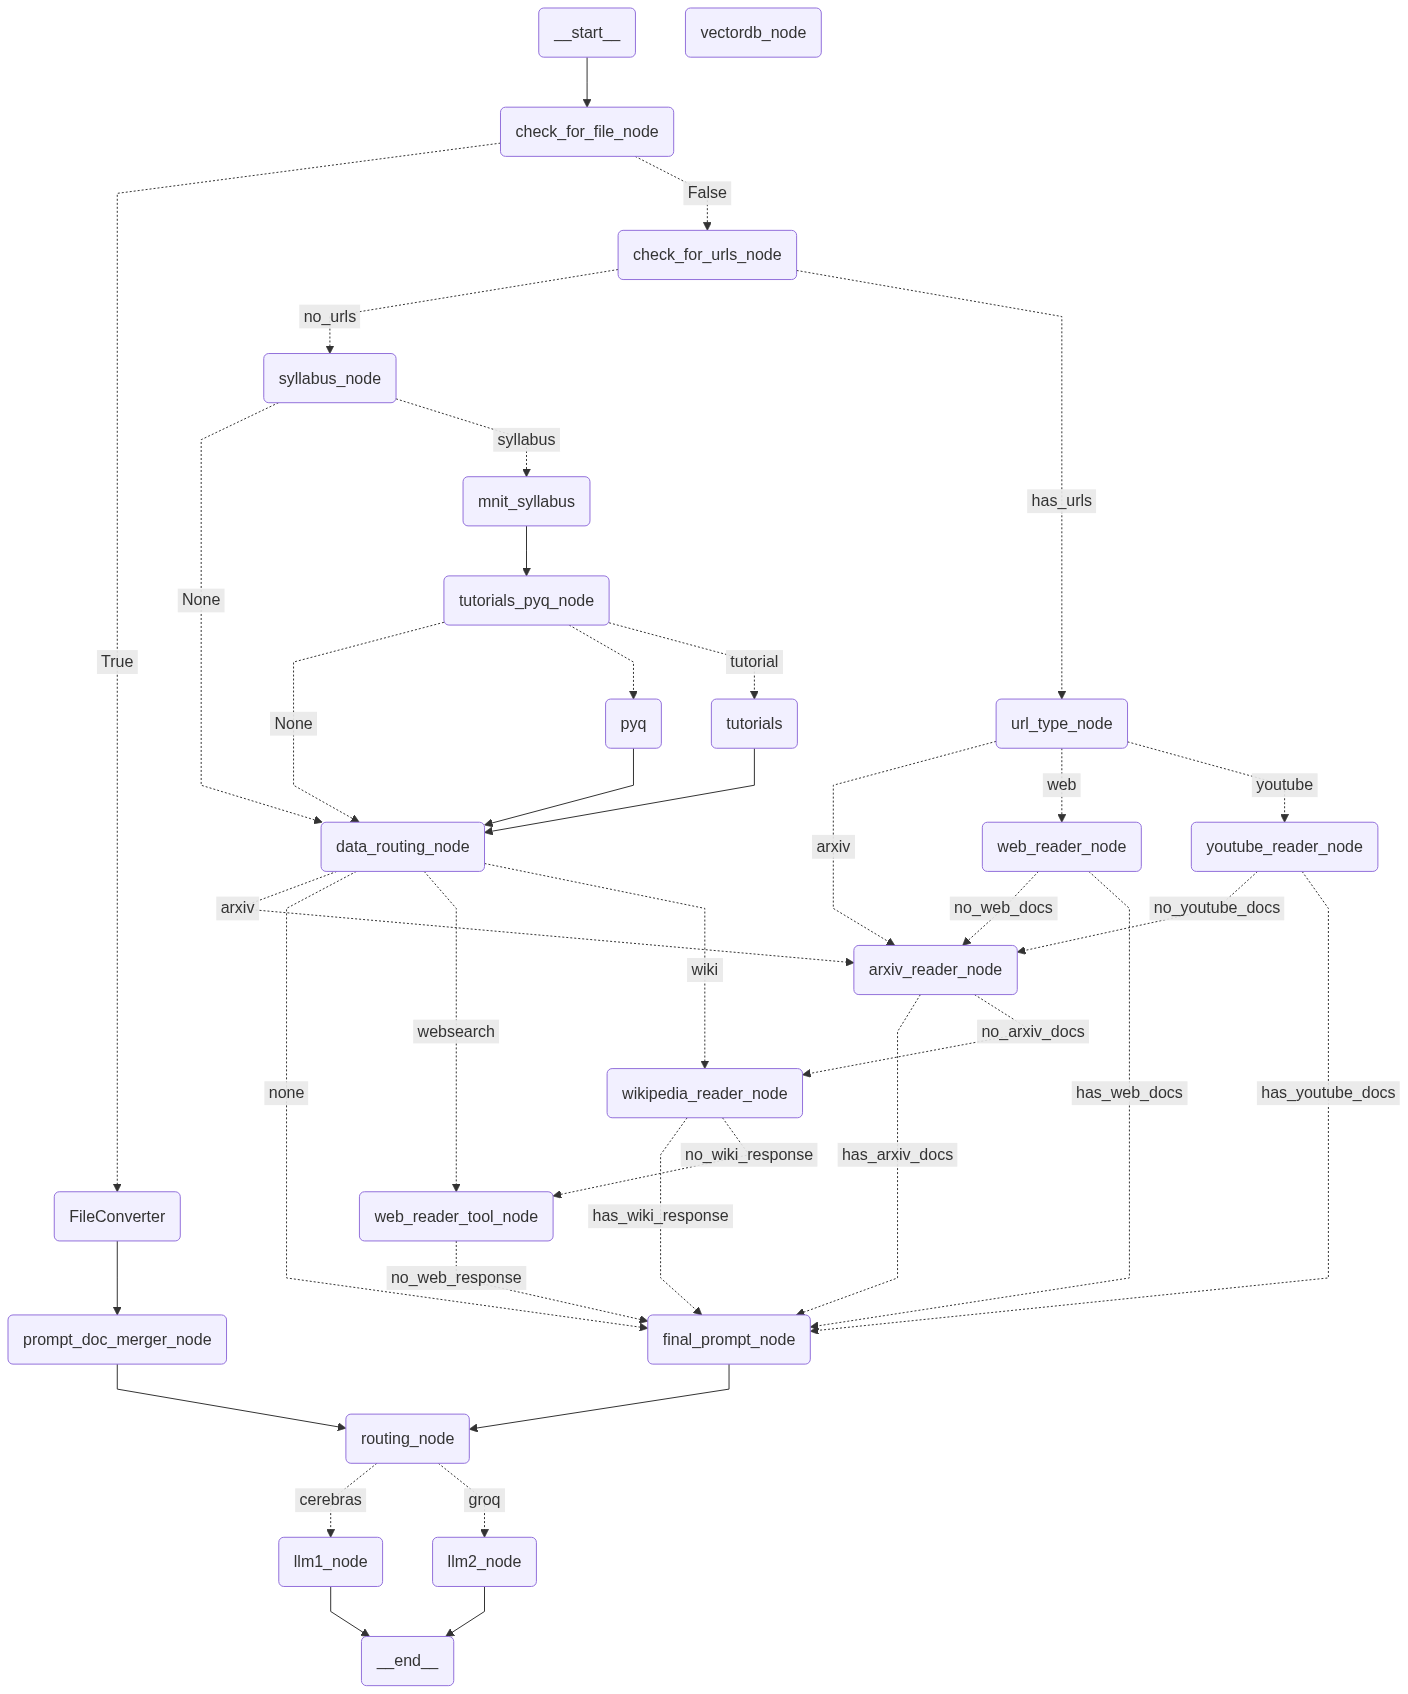
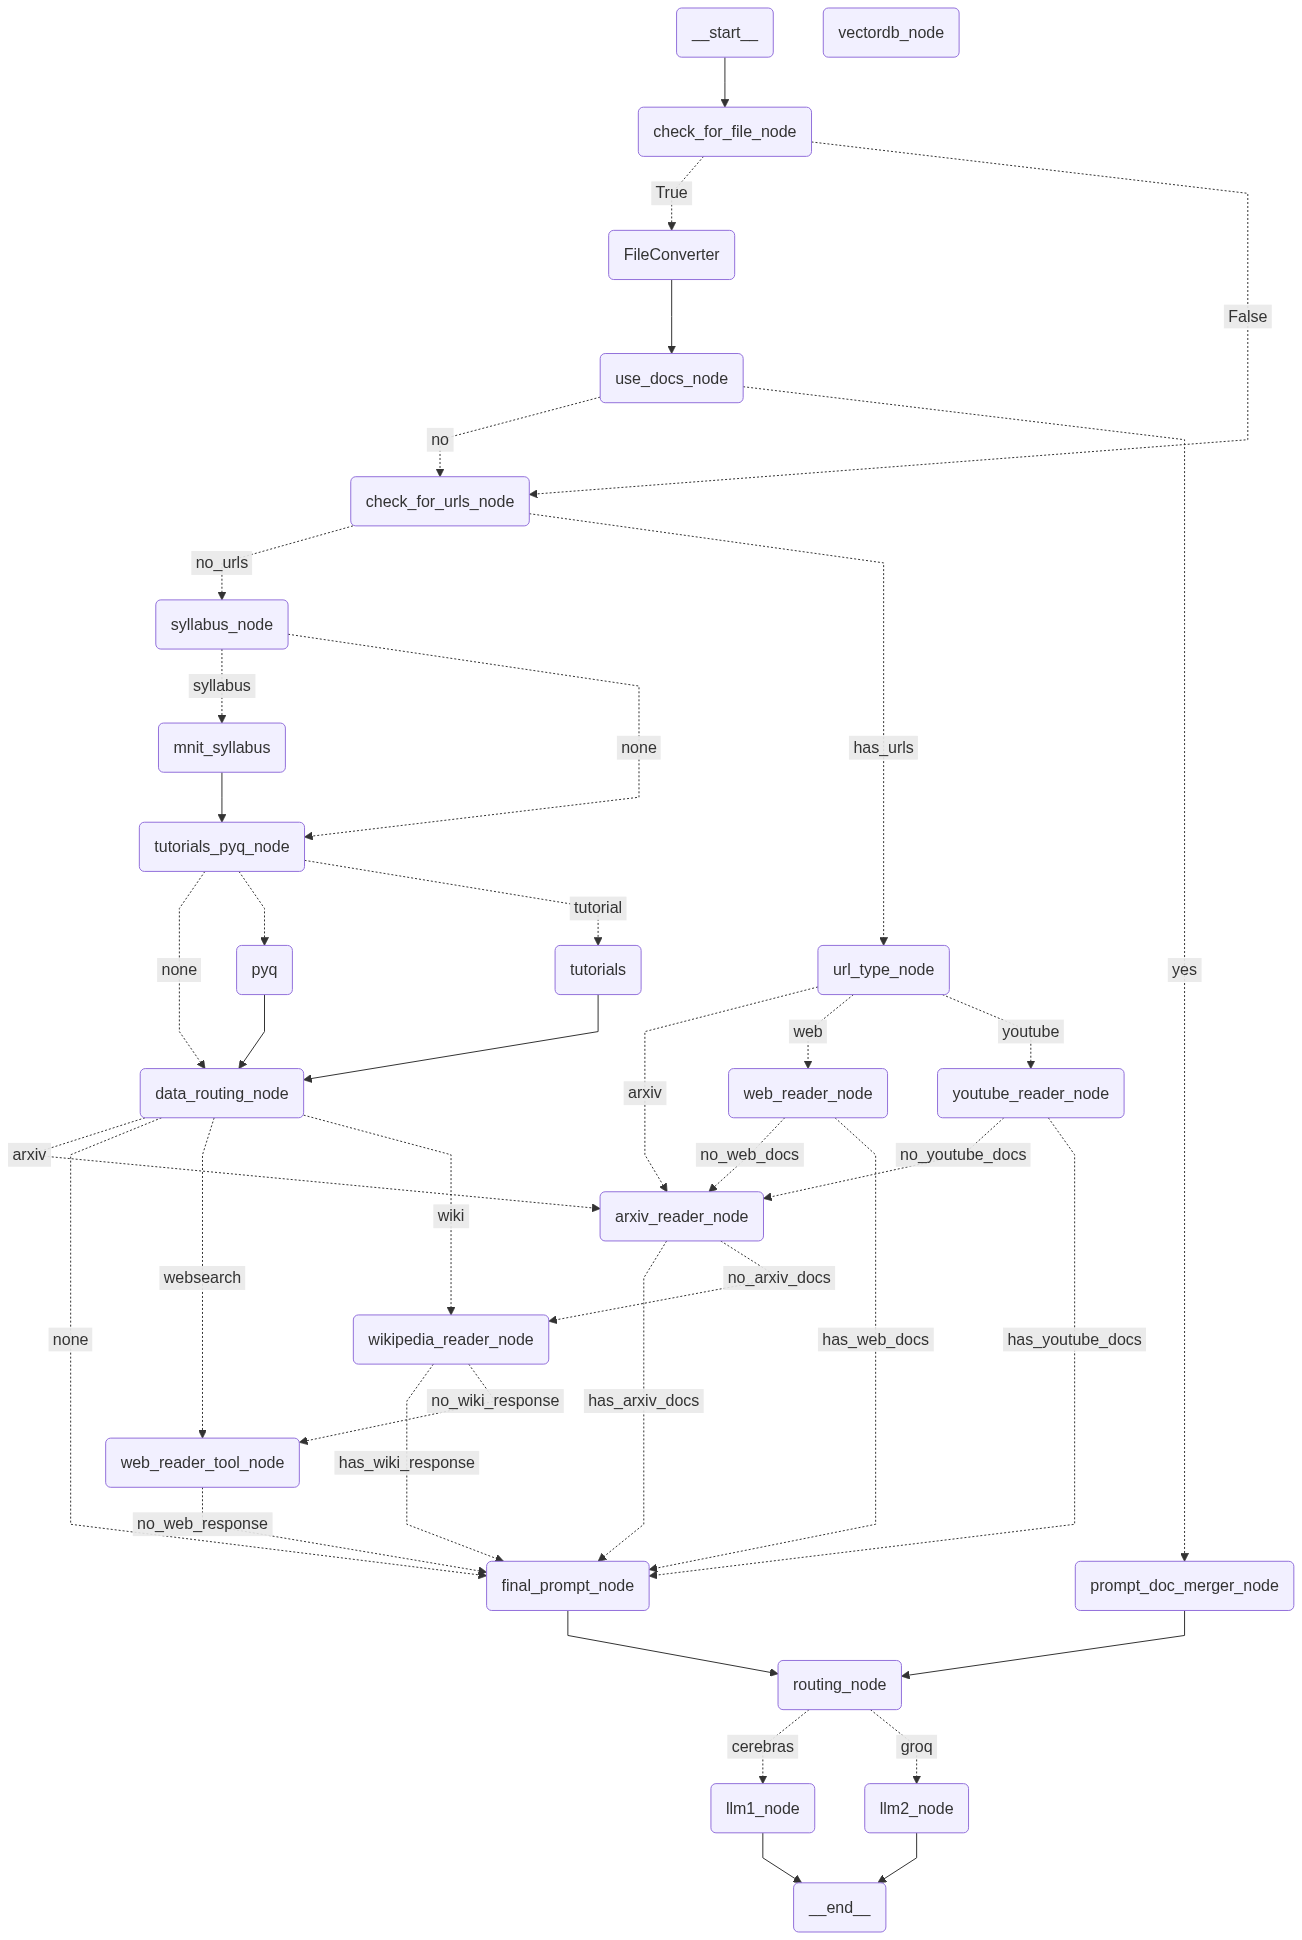
check

diff --git a/LLM_MNIT_PROJECT/workflow.py b/LLM_MNIT_PROJECT/workflow.py
@@ -50,7 +50,7 @@ class State(TypedDict):
     retriever_syllabus:RunnableLambda
     retriever_tutorial:RunnableLambda
     retriever_pyq:RunnableLambda
-    use_docs: str
+    use_docs: bool
 
 
 syllabus_path=os.getcwd() + "/LLM_MNIT_PROJECT/1stSem/syllabus"
@@ -296,12 +296,12 @@ You are an intelligent router. Based on the user prompt, choose whether it is re
 - "no" if the user is not asking about the uploaded document
                                             
 give one word answer only.["yes", "no"].
-docs:{docs}
+docs:{context}
 Prompt: {input}
                                               """)
 def use_docs_node(state: State):
     text = state["user_input"].get("text", "")
-    combined_docs=state.get(["docs",""])
+    combined_docs=state.get(["docs"])
     context_parts = []
     if combined_docs:
         context_parts.append("\n".join(
@@ -309,13 +309,13 @@ def use_docs_node(state: State):
             for doc in combined_docs
         ))
     summary_doc=theory_summarizer(context="\n\n".join(context_parts).strip())
-    result = router_llm.invoke(use_docs_prompt.invoke({"input": text, "docs": summary_doc}))
+    result = router_llm.invoke(use_docs_prompt.invoke({"input": text, "context": summary_doc}))
     use_docs_choice = result.content.strip().lower() if hasattr(result, "content") else str(result).lower()
     
     if use_docs_choice == "yes":
-        state["use_docs"] = "True"
+        state["use_docs"] = True
     elif use_docs_choice == "no":
-        state["use_docs"] = "False"
+        state["use_docs"] = False
     else:
         raise ValueError(f"Unexpected use_docs_choice: {use_docs_choice}")
     
@@ -552,4 +552,8 @@ def create_workflow():
     )
 
     return graph.compile()
+
+graph= create_workflow()
+with open("graph.png", "wb") as f:
+    f.write(graph.get_graph().draw_mermaid_png())  # Save the graph as a PNG file
 
